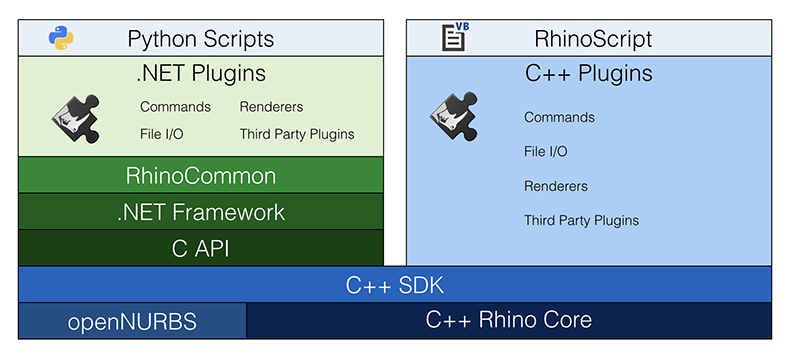
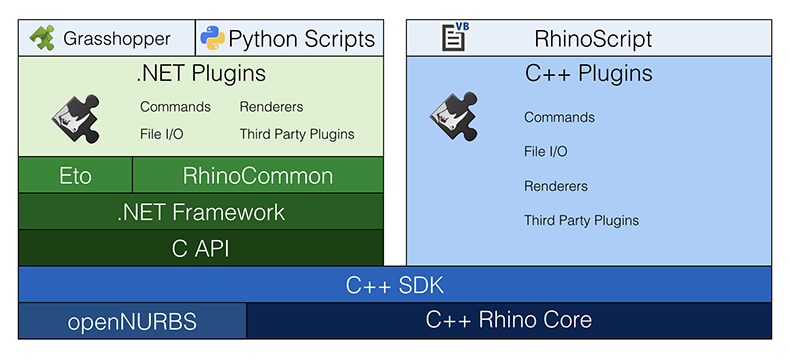
Deploy a9a8489 (wip)

Changed region(s): [[0.0304, 0.0609, 0.4861, 0.1524], [0.1519, 0.4571, 0.4253, 0.518], [0.0608, 0.4571, 0.1215, 0.518]]

diff --git a/wip/guides/general/rhino_technology_overview/index.html b/wip/guides/general/rhino_technology_overview/index.html
@@ -346,7 +346,7 @@ $(document).ready(function()
               
               
               <li>
-                <a href="#c">C++</a>
+                <a href="#c-stack">C++ Stack</a>
 
                 
                   <ul class="nav nav-stacked">
@@ -388,7 +388,7 @@ $(document).ready(function()
               
               
               <li>
-                <a href="#net">.NET</a>
+                <a href="#net-stack">.NET Stack</a>
 
                 
                   <ul class="nav nav-stacked">
@@ -428,11 +428,55 @@ $(document).ready(function()
                       
                       
                       <li>
+                          <a href="#eto">Eto</a>
+                      </li>
+                    
+                      
+                      
+                      
+                      
+                      
+                      <li>
                           <a href="#net-plugins">.NET Plugins</a>
+                      </li>
+                    
+                      
+                      
+                      
+                      
+                      
+                      <li>
+                          <a href="#grasshopper-components">Grasshopper Components</a>
+                      </li>
+                    
+                      
+                      
+                      
+                      
+                      
+                      <li>
+                          <a href="#python-scripts">Python Scripts</a>
                       </li>
                     
 
                   </ul>
+                
+
+              </li>
+            
+
+
+          
+            
+
+            
+              
+              
+              
+              
+              <li>
+                <a href="#related-topics">Related Topics</a>
+
                 
 
               </li>
@@ -469,11 +513,11 @@ $(document).ready(function()
 
 <h2 id="overview">Overview</h2>
 
-<p>Rhinoceros is composed of many layers - written in many languages - all stacked on top of each other.  The most foundational are at the bottom, but the top layers should by no means be considered superficial…</p>
+<p>Rhinoceros is composed of many layers - written in many languages - all stacked on top of each other.  The most foundational are on the bottom, but the top layers should by no means be considered superficial…</p>
 
 <p><img src="/wip/images/rhino_technology_overview_01.png" alt="The Rhino Stack" /></p>
 
-<p>Let’s discuss each of the layers in turn, starting at the bottom with the…</p>
+<p>Let’s discuss each of the layers in turn, starting on the bottom with the…</p>
 
 <h2 id="foundation">Foundation</h2>
 
@@ -491,7 +535,7 @@ $(document).ready(function()
 
 <p>openNURBS is what Rhino uses natively to read/write <em>3dm</em> files.  This toolkit is released before Rhino, so any product, including our competitors, can be compatible with the latest <em>3dm</em> files.  There is no difference between the <em>3dm</em> files Rhino writes and those of other applications using openNURBS to read and write <em>3dm</em>.</p>
 
-<p>See also…</p>
+<p>For more information about openNURBS, please see the <a href="/wip/guides/opennurbs/">openNURBS guides</a>.</p>
 
 <h3 id="c-sdk">C++ SDK</h3>
 
@@ -503,15 +547,17 @@ $(document).ready(function()
 
 <p>Unfortunately, because it’s so tightly coupled to the Rhino Core, plugin developers need to recompile their plugins for every Rhino release.</p>
 
-<h2 id="c">C++</h2>
+<p>For more information about the C++ SDK, check out the <a href="/wip/guides/cpp/">C/C++ guides</a>.</p>
+
+<h2 id="c-stack">C++ Stack</h2>
 
 <p>On the right column of the stack diagram above is the C++ portion of Rhino.  The C++ stack allows us - as well as third-party plugin developers - to write Rhino plugins using the same C++ SDK that we use to develop Rhino itself.  Note that you cannot author Grasshopper components using C++.</p>
 
 <h3 id="c-plugins">C++ Plugins</h3>
 
-<p>On top of the C++ SDK are C++ plugins.  Many features that ship with Rhino, including some Commands, File I/O, Renderers are actually C++ plugins.  There are also dozens of third-party C++ plugins, like VisualARQ, RhinoCAM, Vray, etc.</p>
+<p>On top of the C++ SDK are C++ plugins.  Many features that ship with Rhino, including some Commands, File I/O, Renderers are actually C++ plugins.  There are also dozens of third-party C++ plugins, like <a href="http://www.visualarq.com/">VisualARQ by Asuni</a>, <a href="https://mecsoft.com/rhinocam-software/">RhinoCAM by MecSoft</a>, and <a href="https://www.chaosgroup.com/vray/rhino">V-Ray by Chaos Software</a>.</p>
 
-<p>See also…</p>
+<p>For more information about the C++ SDK, check out the <a href="/wip/guides/cpp/">C/C++ guides</a>.</p>
 
 <h3 id="rhinoscript">RhinoScript</h3>
 
@@ -519,7 +565,7 @@ $(document).ready(function()
 
 <p>For more information, see the <a href="/wip/guides/rhinoscript/">RhinoScript guides</a>, and more specifically the <a href="/wip/guides/rhinoscript/what_are_vbscript_rhinoscript/">What are VBScript and RhinoScript?</a> guide.</p>
 
-<h2 id="net">.NET</h2>
+<h2 id="net-stack">.NET Stack</h2>
 
 <p>The .NET SDK is represented here in three layers:</p>
 
@@ -527,6 +573,7 @@ $(document).ready(function()
   <li>C API</li>
   <li>.NET Framework</li>
   <li>RhinoCommon</li>
+  <li>Eto</li>
 </ul>
 
 <h3 id="c-api">C API</h3>
@@ -535,13 +582,13 @@ $(document).ready(function()
 
 <h3 id="net-framework">.NET Framework</h3>
 
-<p>Microsoft develops the .NET Framework.  .NET makes it possible to write plugins in C#, F#, VB.NET, and any other language that compiles down to Microsoft’s IL.</p>
+<p>Microsoft develops the <a href="https://www.microsoft.com/net/framework">.NET Framework</a>.  .NET makes it possible to write plugins in C#, F#, VB.NET, and any other language that compiles down to Microsoft’s IL.</p>
 
 <p>The Microsoft .NET framework ships with Windows.</p>
 
-<p>In Rhino for Mac product, we embed the Mono Runtime, a partial cross-platform implementation of the .NET Runtime.</p>
+<p>In Rhino for Mac product, we embed the <a href="https://www.mono-project.com">Mono Runtime</a>, a partial cross-platform implementation of the .NET Runtime.</p>
 
-<p>For more information about .NET, see the <a href="/wip/guides/rhinocommon/what_are_mono_and_xamarin/">What are Mono &amp; Xamarin?</a>.</p>
+<p>For more information about .NET and how it relates to Rhino development, see the <a href="/wip/guides/rhinocommon/what_are_mono_and_xamarin/">What are Mono &amp; Xamarin?</a>.</p>
 
 <h3 id="rhinocommon">RhinoCommon</h3>
 
@@ -549,7 +596,47 @@ $(document).ready(function()
 
 <p>For more information about RhinoCommon, see the <a href="/wip/guides/rhinocommon/">RhinoCommon guides</a>, or more specifically, the <a href="/wip/guides/rhinocommon/what_is_rhinocommon">What is RhinoCommon?</a> guide.</p>
 
+<h3 id="eto">Eto</h3>
+
+<p>Using RhinoCommon, you can write .NET plugins that work on Windows and Mac…except for the User Interface.  The Mono team did not clone WinForms or WPF, so neither of those technologies work on the Mac.  To address this problem, Rhino now ships with Eto.Forms.  Eto lets you write user interface once in C#, XAML, or JSON and use it on Windows and macOS.  Actually, your UI written in Eto, can run on iOS, Android, and Linux, too.</p>
+
+<p>For more information about Eto, check out <a href="https://github.com/picoe/Eto">Eto.Forms on GitHub</a>.</p>
+
 <h3 id="net-plugins">.NET Plugins</h3>
+
+<p>Built on top of RhinoCommon are numerous plugins, both internal and third-party developed plugins.  <a href="http://www.grasshopper3d.com/">Grasshopper</a>, for example, is a RhinoCommon plugin.  Some commands, renderers, and file IO plugins in Rhino are actually written as RhinoCommon plugins.  As time goes on, we are moving more and more convenient functionality into RhinoCommon/.NET plugins so as to share more code between platforms.  Many successful third-party plugins are also written using RhinoCommon and .NET, such as <a href="http://www.tdmsolutions.com/">RhinoGold</a> and <a href="http://www.stuller.com/matrix">Matrix by GEMVision</a>, and <a href="http://orca3d.com/">Orca3D</a>.</p>
+
+<p>For more information about RhinoCommon, see the <a href="/wip/guides/rhinocommon/">RhinoCommon guides</a>.</p>
+
+<h3 id="grasshopper-components">Grasshopper Components</h3>
+
+<p>Rhino now ships with Grasshopper, our visual programming language for algorithmic and parametric design.  Grasshopper is a development platform unto itself, with <a href="http://www.food4rhino.com/grasshopper-addons">hundreds of third-party authored Grasshopper components</a>, for doing all sorts of things from <a href="http://www.food4rhino.com/project/kangaroo">physics simulation</a>, to <a href="http://www.food4rhino.com/project/human-ui">creating custom user-interfaces</a>, to <a href="http://www.food4rhino.com/project/hal">industrial robotic programming and control</a>.</p>
+
+<p>For more information about Grasshopper, more specifically developing Grasshopper components, check out the <a href="/wip/guides/grasshopper/">Grasshopper guides</a>.</p>
+
+<h3 id="python-scripts">Python Scripts</h3>
+
+<p>One of the .NET plugins that ships with Rhino is RhinoPython.  Written using <a href="http://ironpython.net/">IronPython</a>, a .NET implementation of the <a href="https://www.python.org/">python</a> runtime, RhinoPython exposes the entire RhinoCommon SDK to the python scripting language.  That means any time we add a feature to RhinoCommon, it shows up automatically in RhinoPython.</p>
+
+<p>For more information about RhinoPython, see the <a href="/wip/guides/rhinopython/">RhinoPython guides</a>.</p>
+
+<hr />
+
+<h2 id="related-topics">Related Topics</h2>
+
+<ul>
+  <li><a href="/wip/guides/cpp/">C/C++ guides</a></li>
+  <li><a href="/wip/guides/opennurbs/">openNURBS guides</a></li>
+  <li><a href="/wip/guides/rhinoscript/">RhinoScript guides</a></li>
+  <li><a href="https://www.microsoft.com/net/framework">Microsoft .NET Framework (on microsoft.com)</a></li>
+  <li><a href="/wip/guides/rhinocommon/what_is_rhinocommon">What is RhinoCommon?</a></li>
+  <li><a href="/wip/guides/rhinocommon/">RhinoCommon guides</a></li>
+  <li><a href="/wip/guides/rhinocommon/what_are_mono_and_xamarin/">What are Mono &amp; Xamarin?</a></li>
+  <li><a href="https://www.mono-project.com">Mono Project</a></li>
+  <li><a href="https://github.com/picoe/Eto">Eto.Forms on GitHub</a></li>
+  <li><a href="/wip/guides/grasshopper/">Grasshopper guides</a></li>
+  <li><a href="/wip/guides/rhinopython/">RhinoPython guides</a></li>
+</ul>
 
         </article>
 
